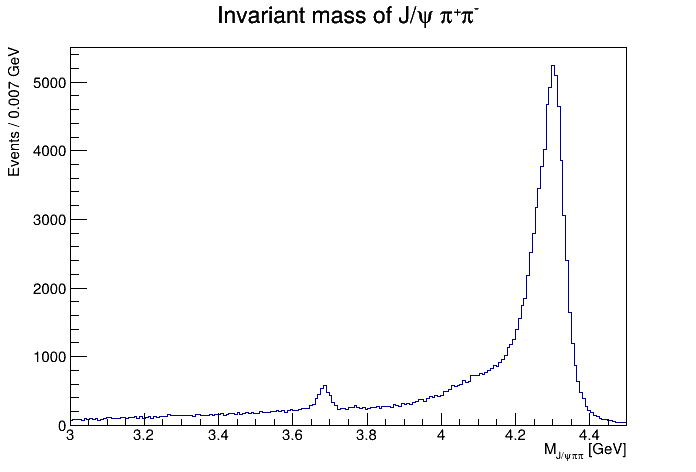
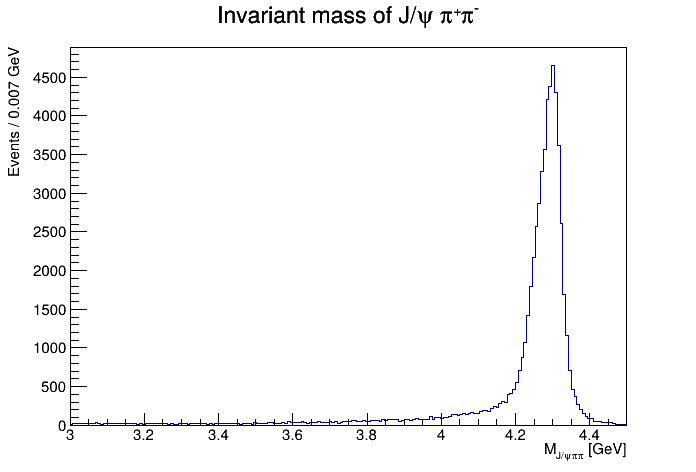
fixed 4.1 and did 4.2

diff --git a/part1_PID/ZcAnalysis.C b/part1_PID/ZcAnalysis.C
@@ -142,6 +142,12 @@ TH1D* h1_Emiss = new TH1D(
     "Missing energy;E_{miss} [GeV];Events",
     200, 0, 2
 );
+// problem 4.2
+TH1D* h1_chi2_4C = new TH1D(
+    "h1_chi2_4C",
+    "4C kinematic fit #chi^{2};#chi^{2}_{4C};Events",
+    200,0,200
+);
 //Problem 2.4
 double m_pi = 0.13957;   // GeV
 double m_e  = 0.000511;  // GeV
@@ -329,6 +335,12 @@ if (pi_plus.size()==1 && pi_minus.size()==1)
 }
 if (!(electronEvent || muonEvent))
 continue;
+// problem 4.2
+double chi2 = dblKinFit4CChiSq;
+h1_chi2_4C->Fill(chi2);
+// applying cut at chi^2 40
+if (chi2 > 40)
+    continue;
 // problem 4.1
 // reconstruct J/psi
 P4M Jpsi;
@@ -347,10 +359,16 @@ P4M total = Jpsi + pions;
 h1_mJpsi_pipi->Fill(total.M());
 
 // missing energy (ISR photon energy approximation)
+// missing energy 4.1
 double Emiss = pCMS.E() - total.E();
-
 h1_Emiss->Fill(Emiss);
-h1_Egamma->Fill(Emiss);
+
+// detected ISR photons
+for (int i = 0; i < intNumberGoodPhotons; i++)
+{
+    double Egamma = dblPhotonsE[i];
+    h1_Egamma->Fill(Egamma);
+}
 //problem 3.6
 // event passed selection
 
@@ -666,6 +684,20 @@ h1_mJpsi_recoil->Fit(ffit_voigt,"R");
     h1_Emiss->Draw();
     
     canvas->SaveAs(savePath + "Missing_energy.png");
+}
+// problem 4.2
+{
+    TCanvas* canvas = new TCanvas("canvas_chi2","canvas_chi2",1200,900);
+    canvas->SetLeftMargin(0.15);
+    double binWidth = h1_chi2_4C->GetBinWidth(1);
+    h1_chi2_4C->GetYaxis()->SetTitle(Form("Events / %.3f GeV", binWidth));
+
+    h1_chi2_4C->SetLineColor(kBlue);
+    h1_chi2_4C->SetLineWidth(2);
+
+    h1_chi2_4C->Draw();
+
+    canvas->SaveAs(savePath + "chi2_4C_distribution.png");
 }
         // h1_pTracks->Draw(); // Draw the histogram on the canvas
 
